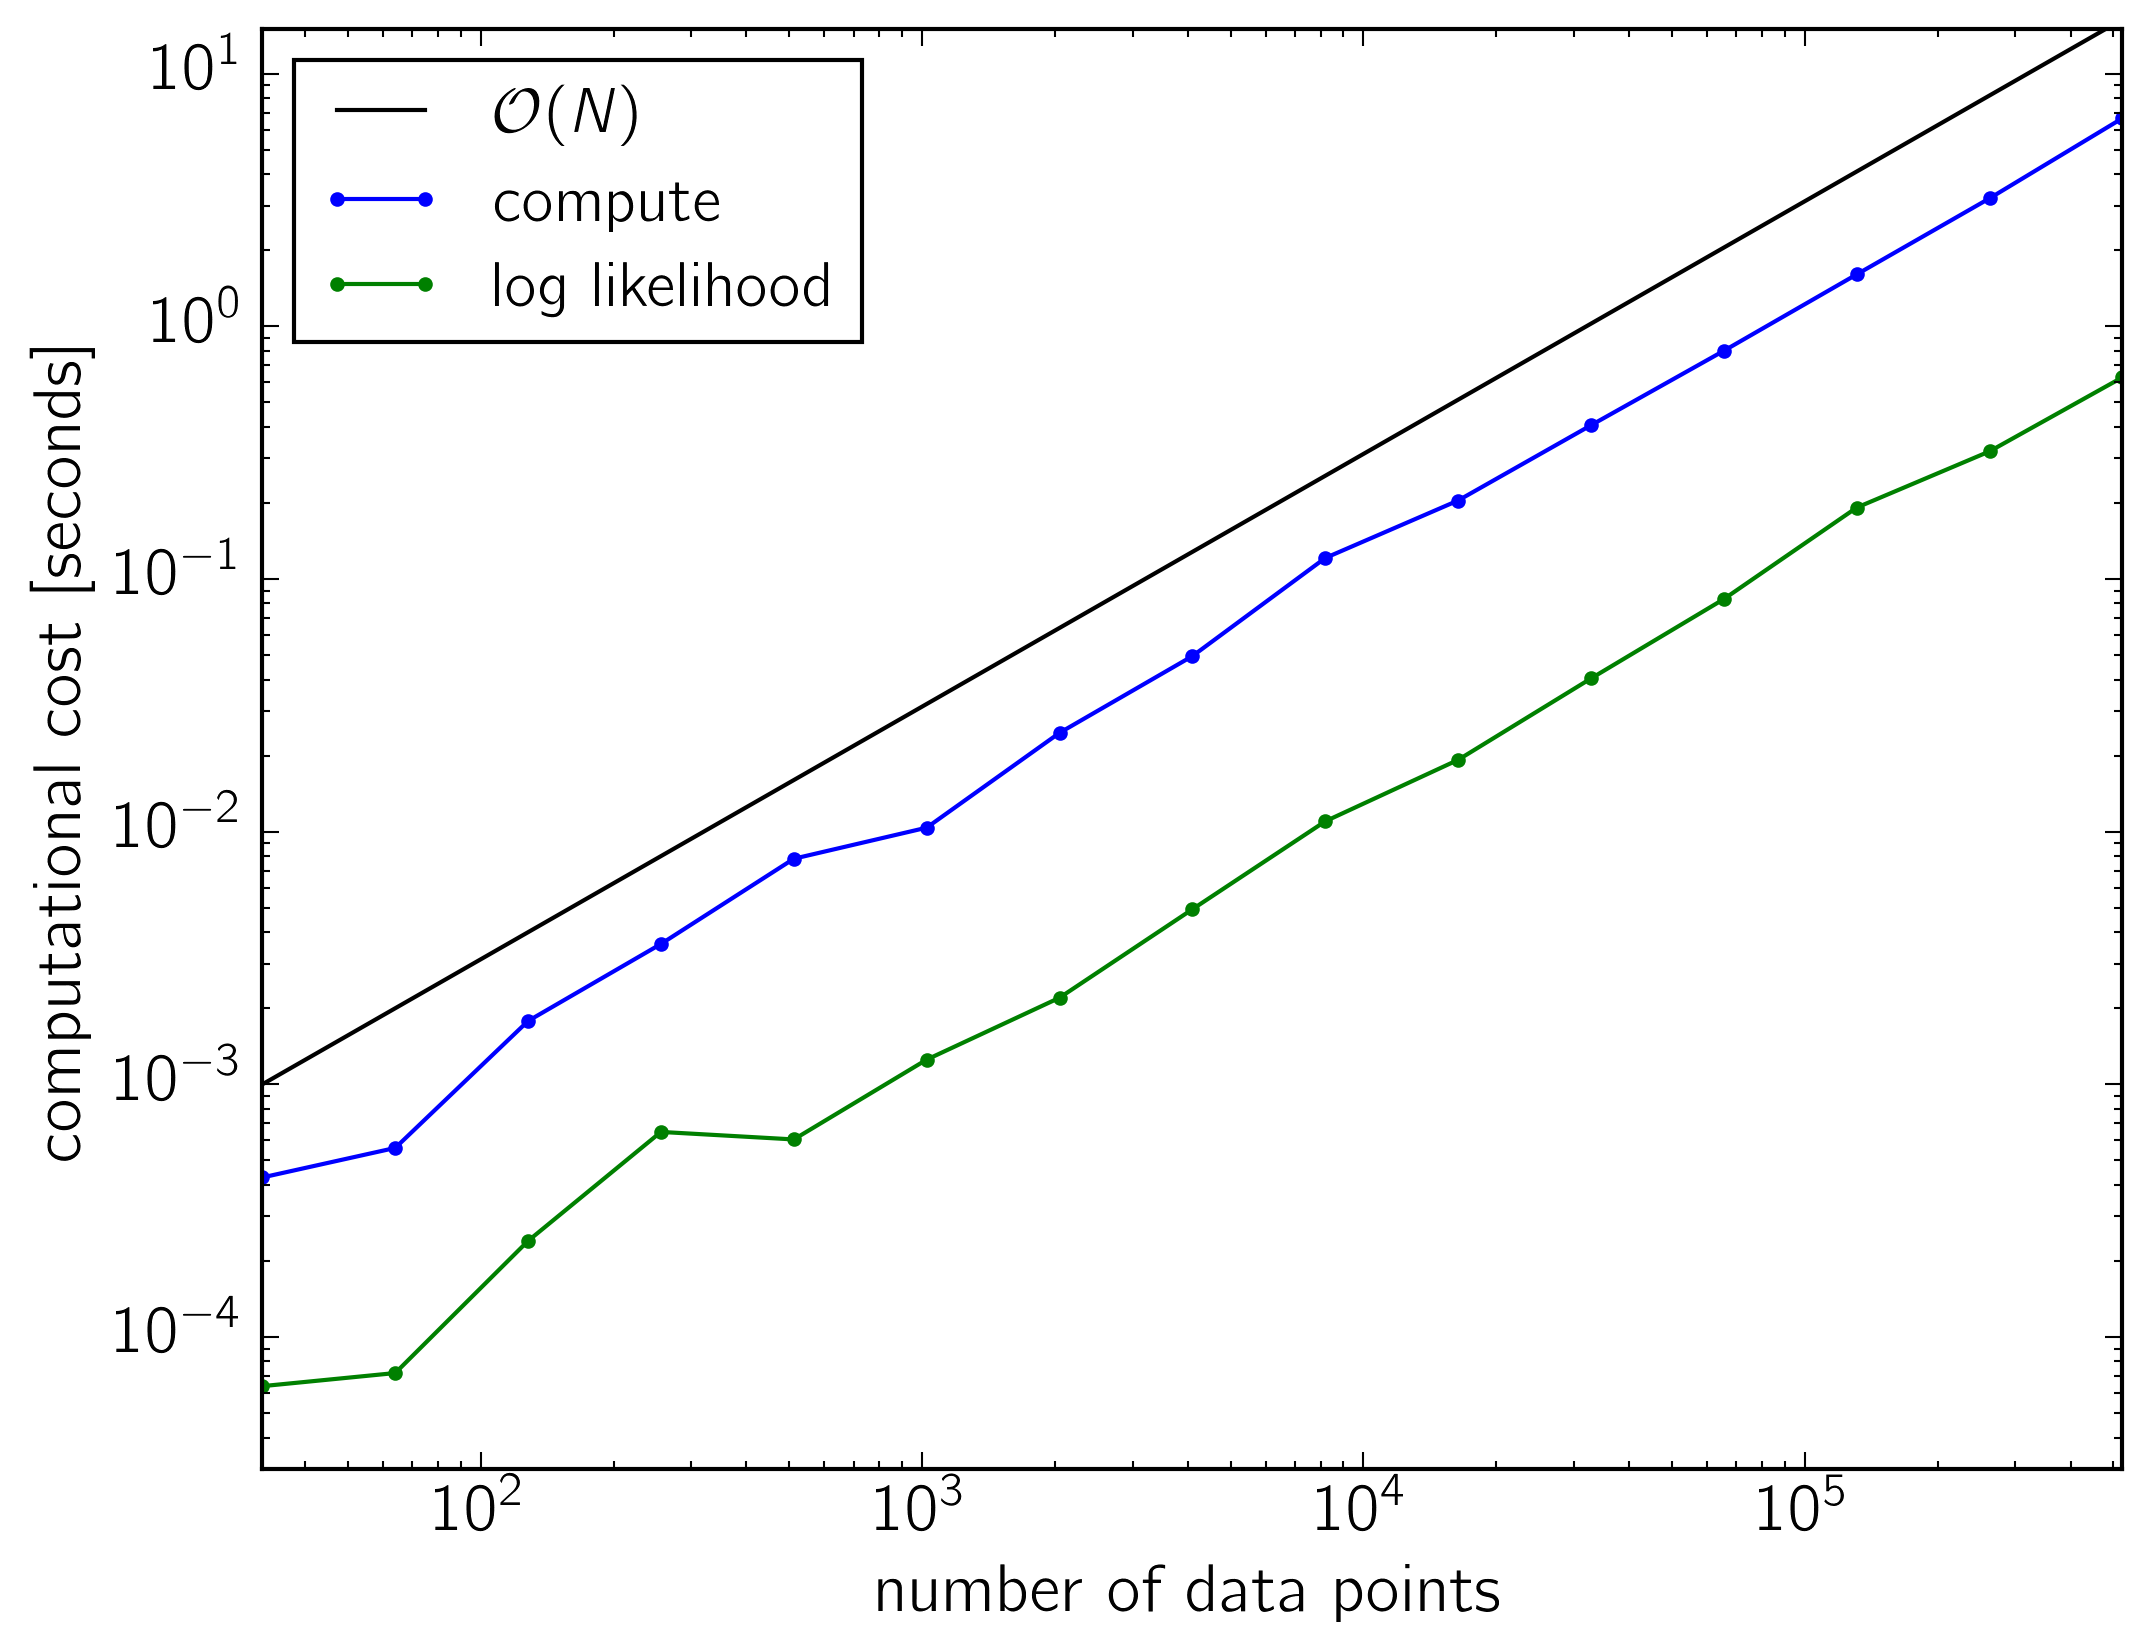
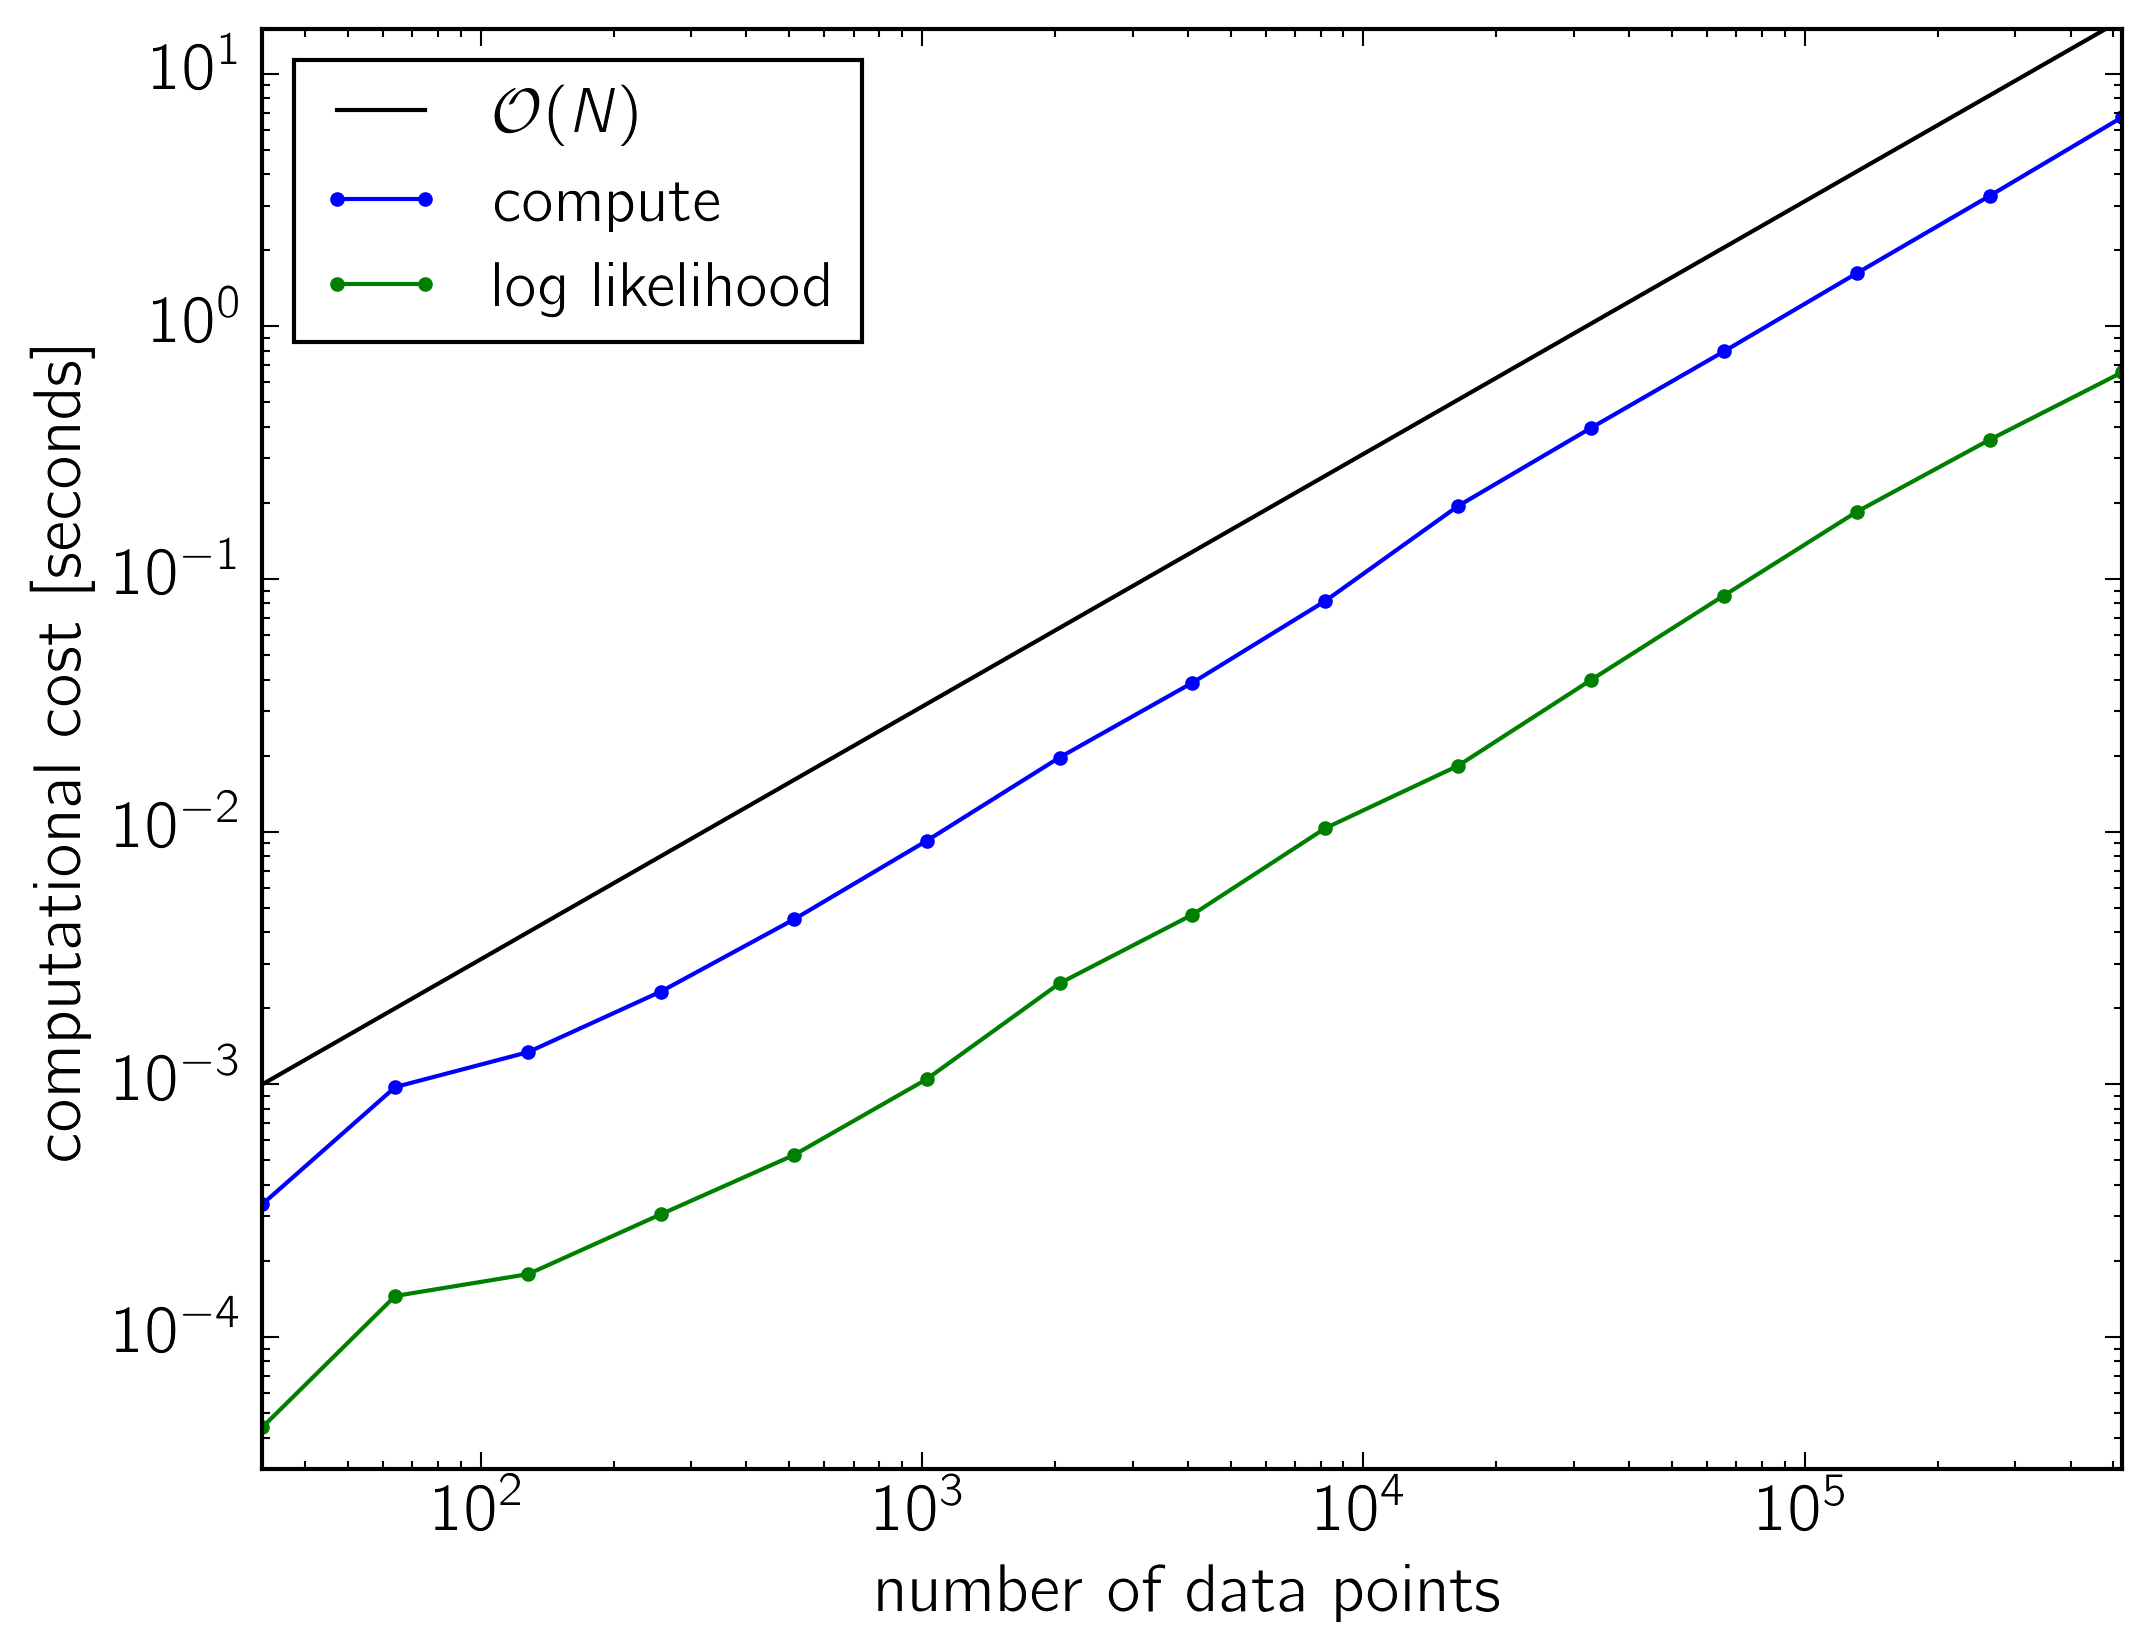
timing

diff --git a/cpp/include/genrp/genrp_solver.h b/cpp/include/genrp/genrp_solver.h
@@ -44,6 +44,9 @@ private:
 inline double get_real (double value) { return value; }
 inline double get_real (std::complex<double> value) { return value.real(); }
 
+inline double get_conj (double value) { return value; }
+inline std::complex<double> get_conj (std::complex<double> value) { return std::conj(value); }
+
 template <typename entry_t>
 GenRPSolver<entry_t>::GenRPSolver (const Eigen::VectorXd alpha, const Eigen::Matrix<entry_t, Eigen::Dynamic, 1> beta)
   : alpha_(alpha),
@@ -102,7 +105,7 @@ void GenRPSolver<entry_t>::compute (const Eigen::VectorXd x, const Eigen::Vector
       b = im1n+k+1;
       value = gamma(k, i);
       triplets[count++] = triplet_t(a, b, value);
-      triplets[count++] = triplet_t(b, a, value);
+      triplets[count++] = triplet_t(b, a, get_conj(value));
 
       // Lines 8-9:
       a = in;
@@ -129,7 +132,7 @@ void GenRPSolver<entry_t>::compute (const Eigen::VectorXd x, const Eigen::Vector
       b = in+k+1;
       value = gamma(k, i+1);
       triplets[count++] = triplet_t(a, b, value);
-      triplets[count++] = triplet_t(b, a, value);
+      triplets[count++] = triplet_t(b, a, get_conj(value));
     }
   }
 

diff --git a/python/demo.py b/python/demo.py
@@ -15,6 +15,7 @@ gp = GP()
 gp.add_term(1.0, 0.1)
 gp.add_term(0.1, 2.0, 1.6)
 
+K = 3
 N = 2**np.arange(5, 20)
 times = np.empty((len(N), 2))
 
@@ -24,12 +25,14 @@ y = np.sin(t)
 
 for i, n in enumerate(N):
     strt = time.time()
-    gp.compute(t[:n], yerr[:n])
-    times[i, 0] = time.time() - strt
+    for k in range(K):
+        gp.compute(t[:n], yerr[:n])
+    times[i, 0] = (time.time() - strt) / K
 
     strt = time.time()
-    gp.log_likelihood(y[:n])
-    times[i, 1] = time.time() - strt
+    for k in range(K):
+        gp.log_likelihood(y[:n])
+    times[i, 1] = (time.time() - strt) / K
 
     print(n, times[i, 0], times[i, 1])
 
